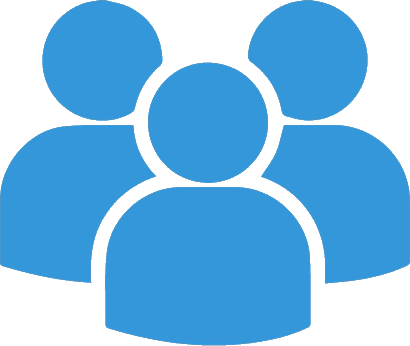
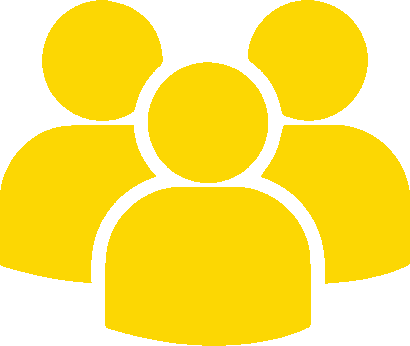
updated brand colors

diff --git a/index.html b/index.html
@@ -28,7 +28,7 @@
       <a class="nav-item nav-link" href="services.html">Services</a>
       <a class="nav-item nav-link" href="team.html">Our Team</a>
       <a class="nav-item nav-link" href="contact.html">Contact</a>
-      <a id="booknow" class="nav-item btn btn-outline-warning text-light my-1 py-1" href="booknow.html">Book Now</a>
+      <a class="brandOutline brandText nav-item btn my-1 py-1" href="booknow.html">Book Now</a>
     </div>
   </div><!-- collapse -->
 </nav><!-- navbar-nav -->
@@ -39,7 +39,7 @@
   <div class="text-center">
     <h2 class="display-2">Vitality Inc.</h2>
     <h4 class="display-4">Helping you feel good.</h4>
-    <a class="btn btn-outline-warning badge-pill  px-4 mt-3" href="booknow.html">Book Now</a>
+    <a class="btn brandOutline brandText badge-pill  px-4 mt-3" href="booknow.html">Book Now</a>
   </div>
 </div>
 
@@ -88,7 +88,7 @@
 <!-- what to expect -->
 <div speed=1 class="parallax-image picture-panel d-flex justify-content-center flex-column">
   <div class="text-center test">
-      <a id="textChange" class="btn btn-warning badge-pill px-4 mt-3" href="booknow.html">Book Now</a>
+      <a id="textChange" class="btn brandSolid badge-pill px-4 mt-3" href="booknow.html">Book Now</a>
   </div>
 </div>
 

diff --git a/assets/css/style.css b/assets/css/style.css
@@ -1,6 +1,48 @@
 
+/* color styling for brand buttons */
+:root {
+  --main-brand-color: #fcd703;
+  --shaded-brand-color: #caac02;
+  --main-brand-font: Helvetica, Arial, sans-serif;
+}
+
+
+/* font selection for site */
 body {
-  /* min-height: 100vh; */
+  font-family: var(--main-brand-font);
+}
+
+
+/* classes for modifying buttons and text to brand colors */
+.brandFont {
+  font-family: var(--main-brand-font);
+}
+
+.brandOutline {
+  border-color: var(--main-brand-color);
+  /* outline-width: 1px; */
+}
+
+.brandOutline:hover {
+  background-color: var(--main-brand-color);
+  /* color: lightgrey; */
+}
+
+.brandSolid {
+  border-color: var(--main-brand-color);
+  background-color: var(--main-brand-color);
+}
+.brandSolid:hover {
+  border-color: var(--shaded-brand-color);
+  background-color: var(--shaded-brand-color);
+}
+
+.brandText {
+  color: var(--main-brand-color);
+}
+
+.brandText:hover {
+  color: lightgrey;
 }
 
 
@@ -78,7 +120,6 @@ body {
     text-decoration: none;
     color: #b1b4b3;
 }
-
 
 
 /* Form styles */
